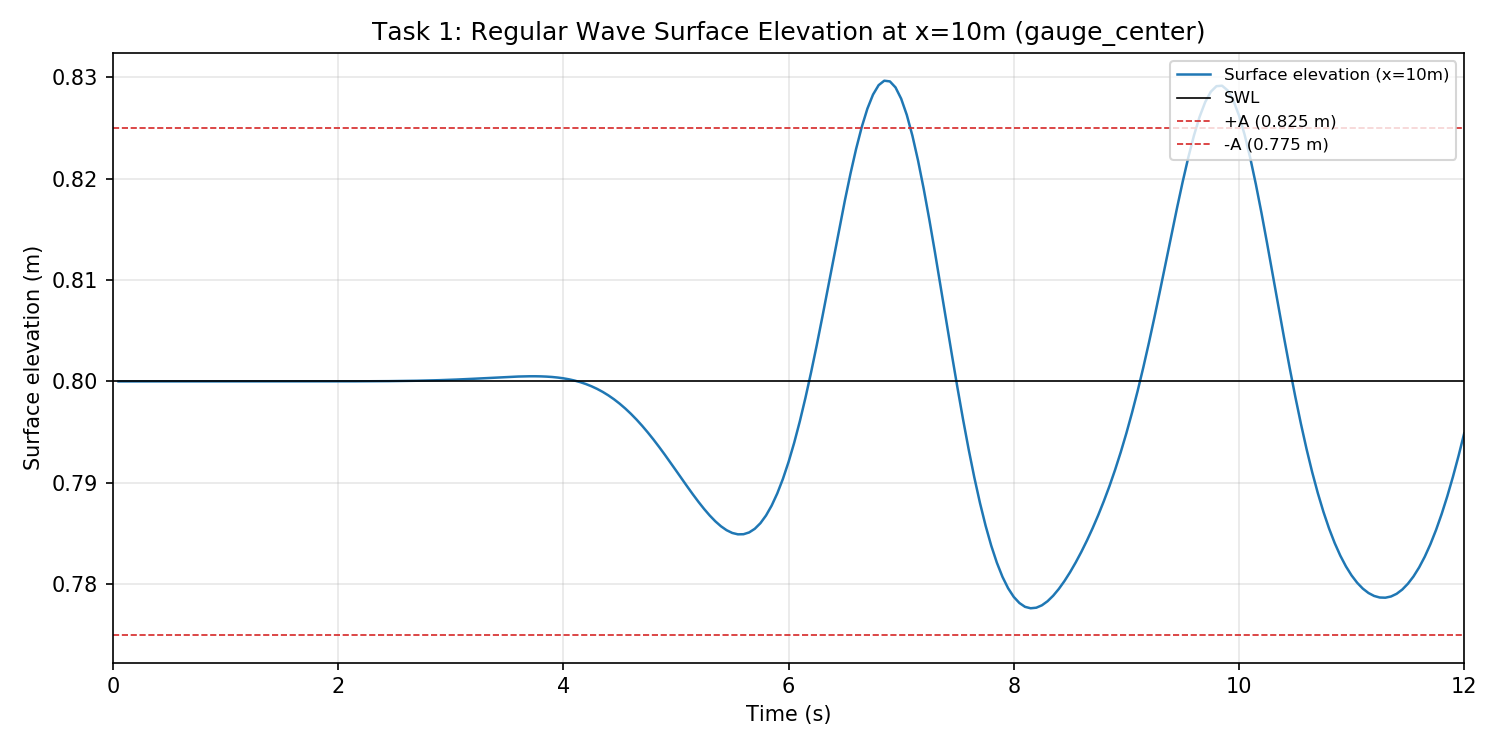
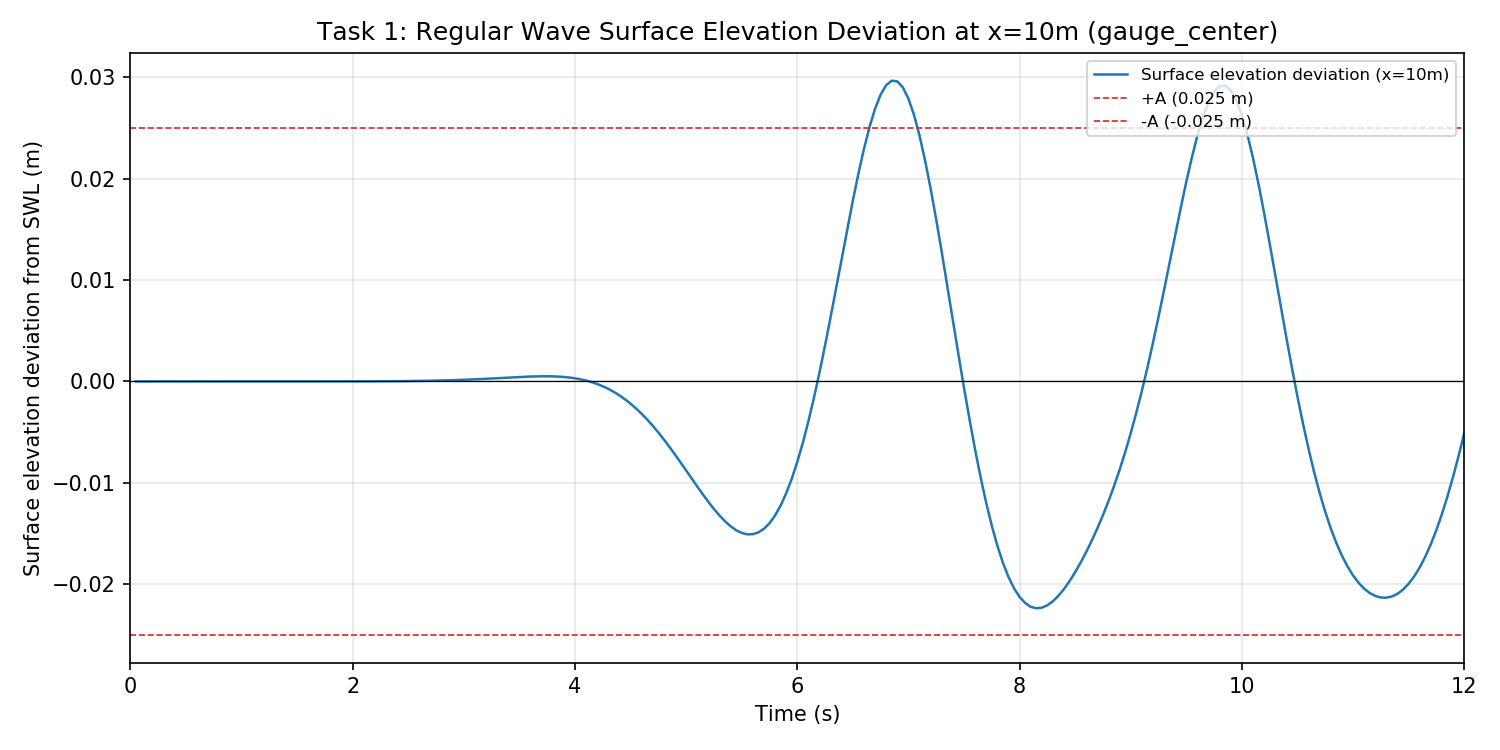
Task 1: subtract SWL from elevation plot, deviation from zero now shown

diff --git a/task1_regularFlume/plot_elevation.py b/task1_regularFlume/plot_elevation.py
@@ -1,6 +1,6 @@
 #!/usr/bin/env python3
 """
-Plot surface elevation at the single x=10m gauge with SWL and +/-A reference lines.
+Plot surface elevation deviation from SWL at the single x=10m gauge with +/-A reference lines.
 """
 import matplotlib
 matplotlib.use("Agg")
@@ -30,17 +30,17 @@ with open(DATA_FILE) as f:
         eta.append(float(parts[1]))
 
 time = np.array(time)
-eta = np.array(eta)
+eta = np.array(eta) - SWL   # subtract SWL: deviation from still water level
 
 fig, ax = plt.subplots(figsize=(10, 5))
-ax.plot(time, eta, color="tab:blue", linewidth=1.2, label="Surface elevation (x=10m)")
-ax.axhline(SWL, color="black", linewidth=0.8, linestyle="-", label="SWL")
-ax.axhline(SWL + A, color="tab:red", linewidth=0.8, linestyle="--", label=f"+A ({SWL+A:.3f} m)")
-ax.axhline(SWL - A, color="tab:red", linewidth=0.8, linestyle="--", label=f"-A ({SWL-A:.3f} m)")
+ax.plot(time, eta, color="tab:blue", linewidth=1.2, label="Surface elevation deviation (x=10m)")
+ax.axhline( A, color="tab:red", linewidth=0.8, linestyle="--", label=f"+A ({A:.3f} m)")
+ax.axhline(-A, color="tab:red", linewidth=0.8, linestyle="--", label=f"-A ({-A:.3f} m)")
+ax.axhline(0, color="black", linewidth=0.6, linestyle="-")   # zero line (SWL reference)
 
 ax.set_xlabel("Time (s)")
-ax.set_ylabel("Surface elevation (m)")
-ax.set_title("Task 1: Regular Wave Surface Elevation at x=10m (gauge_center)")
+ax.set_ylabel("Surface elevation deviation from SWL (m)")
+ax.set_title("Task 1: Regular Wave Surface Elevation Deviation at x=10m (gauge_center)")
 ax.legend(loc="upper right", fontsize=8)
 ax.grid(True, alpha=0.3)
 ax.set_xlim(0, time.max())